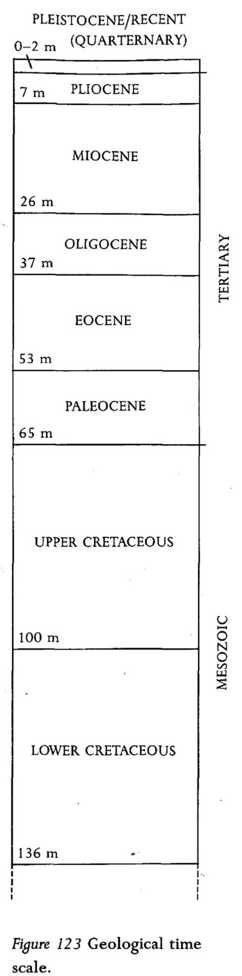
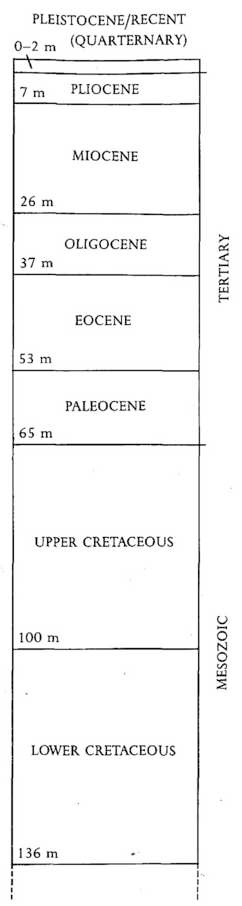
Reduce page size and optimise (#36)
* Change the paper size to 178x254mm.
Modify the cover page to suit.
Break up a 2x2 figure into two figures, so it can flow.
Modify the table header so they fit into textwidth.

* Increase text size by setting bottom margin.
Reduce size of page heading font.
Reduce margin on cover page to allow text to flow.

* Remove foreword, move latex notes into the prefix, move a figure into chapter 2.

* Reduce right margin and reduce margin note width.

* Reduce right margin, use the microtype package to reduce hyphenation.

diff --git a/book.tex b/book.tex
@@ -229,16 +229,6 @@ These include:
 	\item[{(d)}]specialised alpine growth forms such as cushion plants and scree plants.
 \end{description}
 
-% Include figure on a left side page for the next chapter.
-\cleartoleftpage%
-\begin{figure}[htb]
-	\centering
-	\includegraphics[width=0.8\textwidth]{graphics/figure6conifer-broadleaf.jpg}
-	\caption[Conifer broadleaf forest, inland Taranaki]{Conifer broadleaf forest.
-	Inland Taranaki, west central North Island.
-	Photo: J. W. Dawson.}%
-	\label{fig:6conifer-broadleaf}
-\end{figure}
 \chapter{Conifer Broadleaf Forest: General Features and Tropical Comparisons}
 
 \begin{quote}
@@ -251,6 +241,16 @@ These include:
 \end{quote}
 
 This quotation from  Guthrie-Smith's \emph{Tutira}\footnote{\cite{guthriesmith1926tutira}} tends to purple Victorian prose perhaps, but is typical of the reaction of European settlers in New Zealand to the lowland forest or `bush'\figureref{{\fullref{fig:6conifer-broadleaf}, \fullref{fig:7conifer}, \fullref{fig:8conifer}}}, so unlike the forests of `home'.
+
+\begin{SCfigure}[0.5][htb]
+	\includegraphics[width=0.66\textwidth]{graphics/figure6conifer-broadleaf.jpg}
+	\centering
+	\caption[Conifer broadleaf forest, inland Taranaki]{Conifer broadleaf forest.
+	Inland Taranaki, west central North Island.
+	Photo: J. W. Dawson.}%
+	\label{fig:6conifer-broadleaf}%
+\end{SCfigure}
+
 A more professional but similar reaction comes in more recent times from a forester from the tropics.\footnote{\cite{brown1960forester}}
 
 \begin{quote}
@@ -2422,6 +2422,10 @@ It could almost be said that the branching of these shrubs is uncontrolled in co
 			\label{fig:75pittosporum}
 		\end{minipage}
 	\end{minipage}
+\end{figure}
+\begin{figure}[!htb]
+	% Outer minipage scaled to limit width.
+	% Inner minipages scaled so the images have the same height.
 	\begin{minipage}[t]{\textwidth}
 		\begin{minipage}[t]{(\textwidth-\fgap) * \real{0.354}}
 			\centering
@@ -2488,7 +2492,7 @@ In the following list the numbers of divaricate and non-divaricate species are g
 
 \begin{longtable}{ l c c c }
 	\toprule
-	& \emph{Divaricate} & \emph{Non-divaricate} & \emph{Divaricate juvenile}\\
+	& \emph{Divaricate} & \thead{\emph{Non-}\\ \emph{divaricate}} & \thead{\emph{Divaricate}\\ \emph{juvenile}}\\
 	\midrule
 	\endhead%
 	\emph{Violaceae} \\
@@ -4612,9 +4616,9 @@ It has been suggested that at least some of the under-representation of these sp
 Some of these species are well represented in peat where the acid conditions would aid their preservation.
 
 \section{The Fossil Record of New Zealand and Other Southern Lands}
-
 Despite problems of under, over or lack of representation, difficulties in identification due to incomplete and sometimes imperfect preservation, or to some of the fossils being of extinct plants with no modern relatives, it is possible to derive a general picture of the sequence of past botanical events in New Zealand and some related floras.
 Before we attempt to do this, however, it is necessary to review the ways in which the positions of crustal blocks in the South Pacific have changed over time,\footnote{\cite{kemp1978tertiary}}\footnote{\cite{crook1981break}} as this is critical to the interpretation of the botanical trends.
+
 \begin{wrapfigure}[24]{i}{0.25\textwidth}
 	\centering
 	\includegraphics[width=0.23\textwidth]{graphics/figure123timescale.jpg}

diff --git a/main.tex b/main.tex
@@ -10,12 +10,12 @@
 % Geometry - set the page size etc.
 \usepackage{geometry}
 \geometry{
-	papersize={193mm,260mm},
-	outer=4cm,
+	papersize={178mm,254mm},
+	outer=3cm,
 	inner=2cm,
-	textheight=200mm,
-	marginparwidth=3cm,
-	marginparsep=3mm
+	bottom=3cm,
+	marginparwidth=2cm,
+	marginparsep=3mm,
 }
 % Load fonts
 \usepackage[T1]{fontenc}
@@ -39,6 +39,8 @@
 \setlist[description]{font=\normalfont\itshape}% chktex 6
 % Prints a trailing space in a smart way.
 \usepackage{xspace}
+% Improve line formatting and reduce hyphenation.
+\usepackage{microtype}
 % Allow for number and unit formatting. Default to use text fontst.
 \usepackage[mode=text]{siunitx}
 %
@@ -47,6 +49,9 @@
 \usepackage{longtable}
 % Add the \toprule etc commands.
 \usepackage{booktabs}
+% Get the \thead command so we can have multi-line headings.
+\usepackage{makecell}
+\renewcommand\theadfont{\normalfont}
 %
 % CHAPTER AND SECTION STYLES
 % titlesec can't handle multiple footnotes in one heading.
@@ -60,7 +65,8 @@
 % but it has restrictions (e.g., can't be used inside a figure caption), so
 % we'll use marginnote instead.
 \usepackage{marginnote}
-\newcommand{\figureref}[1]{\marginnote{\small \itshape See #1}}% chktex 1 6
+\newcommand{\figureref}[1]{\marginnote{\small \itshape #1}}% chktex 1 6
+%\newcommand{\figureref}[1]{(See #1)}% chktex 1 6
 % Place footnotes at the bottom of the page (i.e., not directly under text, as
 % we use \raggedbottom), and provide commas between the references if there are
 % multiple footnotes.
@@ -96,14 +102,13 @@
 \pagestyle{fancy}
 \fancyhf{}
 \fancyfoot{}
-\fancyhead[RE]{\sffamily\itshape\leftmark}% chktex 6
-\fancyhead[LO]{\sffamily\itshape\rightmark}% chktex 6
+\fancyhead[RE]{\small\sffamily\itshape\leftmark}% chktex 6
+\fancyhead[LO]{\small\sffamily\itshape\rightmark}% chktex 6
 % Page number in the header.
-\fancyhead[LE,RO]{\sffamily\itshape\thepage}% chktex 6
-% Chapter and section names in the header to upper case.
-\renewcommand{\chaptermark}[1]{\markboth{\MakeUppercase{#1}}{}}
-% Increase header height.
-\setlength{\headheight}{25pt}
+\fancyhead[LE,RO]{\small\sffamily\itshape\thepage}% chktex 6
+% Just include the name, not "Chapter x".
+\renewcommand{\chaptermark}[1]{\markboth{#1}{}}
+\renewcommand{\sectionmark}[1]{\markright{#1}}
 
 % BIBLIOGRAPHY, INDEX, REFERENCES AND URLs
 %
@@ -171,16 +176,18 @@
 \makeatletter
 {
 	\thispagestyle{empty}
+	\newgeometry{right=2cm,bottom=3cm}
 	\begin{raggedright}
 		\fontsize{24}{30}\selectfont
 		\hspace{0pt}
 		\vfill
-		{\fontsize{44}{55}\selectfont \sffamily FOREST VINES \emph{to}\par SNOW TUSSOCKS\par}
+		{\fontsize{40}{50}\selectfont \sffamily FOREST VINES \emph{to}\par SNOW TUSSOCKS\par}
 		\vspace{1em}
 		{\scshape \sffamily The Story of New Zealand Plants \par}
-		\vspace{8em}
+		\vspace{4em}
 		{\@author\ \par}
 	\end{raggedright}
+	\restoregeometry%
 }
 \makeatother
 \clearpage
@@ -196,7 +203,6 @@
 % The back matter contains appendices, bibliographies, indices, glossaries, etc.
 \backmatter%
 \printbibliography[heading=bibintoc]
-\subfile{latex-notes}
 % Set the heading otherwise the previous chapter heading leaks.
 \markboth{Index}{Index}
 \printindex

diff --git a/preface.tex b/preface.tex
@@ -1,14 +1,5 @@
 \markboth{}{}
 
-\chapter*{Foreword}
-
-{\itshape%
-    This resource is unavailable for copyright reasons, and cannot be made available until such time as permission to reproduce this work online is received from the rights owner.
-
-    If you have information about the rights owner, or about their willingness to make this resource available online, please contact the NZETC Director.
-}
-
-\cleardoublepage%
 {
     \thispagestyle{empty}
     \hspace{0pt}
@@ -50,7 +41,7 @@ The overseas botanist is unlikely to find `supplejack' or `bush lawyer' very mea
 
 The book derives in large part from courses given at both graduate and undergraduate levels and also over a number of years to Workers' Educational Association classes.
 
-\section*{The Book And Author}
+\section*{About The Book And Author}
 
 \emph{Forest Vines to Snow Tussocks} is the first general review of the distinctive features of New Zealand native plants since Cockayne's \emph{New Zealand Plants and their Story}, now long out of print.
 
@@ -65,6 +56,35 @@ John Dawson was born in 1928 in Eketahuna, where his interest in plants began.
 He was educated at Victoria University and the University of California at Berkeley, and since 1957 has taught in Victoria University's Botany department.
 He has a long standing interest in the characteristics, history and relationships of New Zealand plants, and has conducted detailed research into a family of alpine plants (Umbelliferae).
 For the past 25 years he has also been involved in studies of the New Caledonian flora, with detailed research, soon to be published in two volumes, of the family Myrtaceae.
+
+\section*{About The \LaTeX\ Version}
+
+\emph{Forest Vines To Snow Tussocks} has been sadly out of print for some years.
+Fortunately, Victoria University of Wellington made it available in their New Zealand Electronic Text Collection (\url{https://nzetc.victoria.ac.nz/}), under the CC-BY-SA 3.0 NZ license (\url{https://creativecommons.org/licenses/by-sa/3.0/nz/}).
+
+The exception is the foreword by E. J. Godley, for which the NZETC have not been able to acquire the necessary rights.
+
+This version has been typeset using \LaTeX\ by Doug Rinckes in 2021.
+The source is available (under the CC-BY-SA 3.0 NZ license) at \url{https://github.com/drinckes/forestvinestosnowtussocks}.
+
+Deviations from the original book are minor, largely limited to correcting errors made in previous conversions.
+Sadly the image quality is quite poor and either better scans, or replacement images would be helpful.
+
+The book is set in 11pt EB Garamond, with Biolinum for chapter and section headings.
+
+Original catalogue information:
+
+\begin{quote}
+	National Library of New Zealand\newline
+	Cataloguing-in-Publication data
+
+	DAWSON, John\newline
+	Forest vines to snow tussocks: the story of New Zealand plants/John Dawson. --- Wellington (N. Z.): Victoria University Press, 1988. --- 1 v.\newline
+	ISBN 0-86473-047-0\newline% chktex 8
+	581.9931\newline
+	1. Botany --- New Zealand. I. Title.\newline
+\end{quote}
+
 
 \chapter*{Acknowledgements}
 

diff --git a/copyright.tex b/copyright.tex
@@ -3,4 +3,4 @@
 ~\vfill
 
 This book was originally published in 1988 by Victoria University Press, Victoria University of Wellington and ©John Dawson.
-It was subsequently made available in the New Zealand Electronic Text Collection (\url{https://nzetc.victoria.ac.nz/}) under a CC-BY-SA 3.0 NZ license (\url{https://creativecommons.org/licenses/by-sa/3.0/nz/}).
+It is now available in the New Zealand Electronic Text Collection (\url{https://nzetc.victoria.ac.nz/}) under the CC-BY-SA 3.0 NZ license (\url{https://creativecommons.org/licenses/by-sa/3.0/nz/}).
